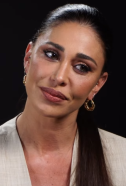
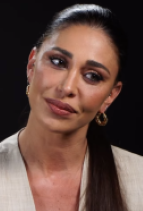
Aggiunta classe Evento per gestire le stringhe e le immagini di output della classe EventiCasuali

diff --git a/Falsissimo/src/falsissimo/EventiCasuali.java b/Falsissimo/src/falsissimo/EventiCasuali.java
@@ -11,127 +11,127 @@ import java.util.Random;
  * @author pazzagli.angelica
  */
 public class EventiCasuali {
-    public static String perquisizione(FabrizioCorona fabrizio) {
+    public static Evento perquisizione(FabrizioCorona fabrizio) {
         Random random = new Random();
         fabrizio.soldi -= random.nextInt(fabrizio.getSoldi() / 2);
         fabrizio.checkSoldi();
-        return "Perquisizione andata male. (soldi -*)";
+        return new Evento("Perquisizione andata male. (soldi -*)", "/images/Perquisizione.png");
     }
     
-    public static String sabotaggio(FabrizioCorona fabrizio) {
+    public static Evento sabotaggio(FabrizioCorona fabrizio) {
         if(fabrizio.getAstuzia() < 7) {
             fabrizio.soldi -= 5000;
             fabrizio.checkSoldi();
-            return "Tentativo di sabotaggio, astuzia insufficiente. (soldi -5.000)";
+            return new Evento("Tentativo di sabotaggio, astuzia insufficiente. (soldi -5.000)", "/images/Sabotaggio.png");
         }
         fabrizio.astuzia++;
         fabrizio.checkAstuzia();
-        return "Tentativo di sabotaggio evitato. (astuzia +1)";
+        return new Evento("Tentativo di sabotaggio evitato. (astuzia +1)", "/images/Sabotaggio.png");
     }
     
-    public static String ricatto(FabrizioCorona fabrizio) {
+    public static Evento ricatto(FabrizioCorona fabrizio) {
         Random random = new Random();
         int perc = random.nextInt(10);
         if(fabrizio.getAstuzia() > 8) {
             if(perc > 8) {
                 fabrizio.soldi += fabrizio.getSoldi() / 2;
-                return "Hai ricattato un VIP, i tuoi soldi aumentano di 1/2 del tuo conto. (soldi +*)";
+                return new Evento("Hai ricattato un VIP, i tuoi soldi aumentano di 1/2 del tuo conto. (soldi +*)", "/images/Ricatto.png");
             }
             fabrizio.soldi += fabrizio.getSoldi() / 6;
-            return "Hai ricattato un VIP, i tuoi soldi aumentano di 1/6 del tuo conto. (soldi +*)";
+            return new Evento("Hai ricattato un VIP, i tuoi soldi aumentano di 1/6 del tuo conto. (soldi +*)", "/images/Ricatto.png");
         }
         fabrizio.soldi -= 7000;
         fabrizio.checkSoldi();
-        return "Hai provato a ricattare un VIP ma non è andata a buon fine. (soldi -7.000)";
+        return new Evento("Hai provato a ricattare un VIP ma non è andata a buon fine. (soldi -7.000)", "/images/Ricatto.png");
     }
     
-    public static String vociNegative(FabrizioCorona fabrizio) {
+    public static Evento vociNegative(FabrizioCorona fabrizio) {
         fabrizio.fama -= 1;
         fabrizio.checkFama();
-        return "Voci false diffuse sul tuo conto. (fama -2)";
+        return new Evento("Voci false diffuse sul tuo conto. (fama -2)", "/images/Pettegolezzi.png");
     }
     
-    public static String truffa(FabrizioCorona fabrizio) {
+    public static Evento truffa(FabrizioCorona fabrizio) {
         fabrizio.soldi -= 10000;
         fabrizio.checkSoldi();
         fabrizio.astuzia -= 1;
         fabrizio.checkAstuzia();
-        return "Sei stato truffato. (soldi -25.000) (astuzia -2)";
+        return new Evento("Sei stato truffato. (soldi -25.000) (astuzia -2)", "/images/Truffa.png");
     }
     
-    public static String intervistaBelve(FabrizioCorona fabrizio) {
+    public static Evento intervistaBelve(FabrizioCorona fabrizio) {
         if(fabrizio.getAstuzia() > 8) {
             fabrizio.astuzia++;
             fabrizio.checkAstuzia();
-            return "Francesca Fagnani ti fa una domanda scomoda, riesci a cavartela grazie alla tua astuzia. (astuzia +1)";
+            return new Evento("Francesca Fagnani ti fa una domanda scomoda, riesci a cavartela grazie alla tua astuzia. (astuzia +1)", "/images/FrancescaFagnani.png");
         }
         fabrizio.fama -= 2;
         fabrizio.checkFama();
-        return "Francesca Fagnani ti fa una domanda scomoda dalla quale non riesci a scappare. (fama -2)";
+        return new Evento("Francesca Fagnani ti fa una domanda scomoda dalla quale non riesci a scappare. (fama -2)", "/images/FrancescaFagnani.png");
     }
     
-    public static String incontroBelen(FabrizioCorona fabrizio) {
+    public static Evento incontroBelen(FabrizioCorona fabrizio) {
         if(fabrizio.getFama() >=9) {
             fabrizio.soldi += 15000;
             fabrizio.fama = 10;
-            return "Sei riuscito ad incontrare Belen e ti ci hanno paparazzato. (soldi +15.000) (fama +1)";
+            return new Evento("Sei riuscito ad incontrare Belen e ti ci hanno paparazzato. (soldi +15.000) (fama +1)", "/images/BelenRodriguez.png");
         }
         fabrizio.fama--;
         fabrizio.checkFama();
-        return "Hai incontrato Belen ma hai fatto una brutta figura. (fama -1)";
+        return new Evento("Hai incontrato Belen ma hai fatto una brutta figura. (fama -1)", "/images/BelenRodriguez.png");
     }
     
-    public static String litigioIlary(FabrizioCorona fabrizio) {
+    public static Evento litigioIlary(FabrizioCorona fabrizio) {
         if(fabrizio.getAstuzia() > 6) {
             fabrizio.fama += 2;
             fabrizio.checkFama();
-            return "Litigata in diretta con Ilary, riesci a sfruttare il momento. (fama +2)";
+            return new Evento("Litigata in diretta con Ilary, riesci a sfruttare il momento. (fama +2)", "/images/IlaryBlasi.png");
         }
         fabrizio.fama -= 2;
         fabrizio.checkFama();
-        return "Litigata in diretta con Ilary, perdi consensi. (fama -2)";
+        return new Evento("Litigata in diretta con Ilary, perdi consensi. (fama -2)", "/images/IlaryBlasi.png");
     }
     
-    public static String paparazzata(FabrizioCorona fabrizio) {
+    public static Evento paparazzata(FabrizioCorona fabrizio) {
         Random random = new Random();
         int guadagno = random.nextInt(10000) + 1000;
         fabrizio.soldi += guadagno;
         fabrizio.astuzia++;
         fabrizio.checkAstuzia();
-        return "Hai organizzato una paparazzata appositamente. (soldi +*) (astuzia +1)";
+        return new Evento("Hai organizzato una paparazzata appositamente. (soldi +*) (astuzia +1)", "/images/Paparazzata.png");
     }
 
-    public static String causaLegale(FabrizioCorona fabrizio) {
+    public static Evento causaLegale(FabrizioCorona fabrizio) {
         if(fabrizio.getSoldi() > 10000) {
             fabrizio.soldi -= 10000;
             fabrizio.checkSoldi();
-            return "Hai abbastanza soldi per evitare la causa. (soldi -10.000)";
+            return new Evento("Hai abbastanza soldi per evitare la causa. (soldi -10.000)", "/images/CausaLegale.png");
         }
         fabrizio.fama -= 1;
         fabrizio.checkFama();
-        return "Immagine intaccata. (fama -1)";
+        return new Evento("Immagine intaccata. (fama -1)", "/images/CausaLegale.png");
     }
 
-    public static String scoopEsclusivo(FabrizioCorona fabrizio) {
+    public static Evento scoopEsclusivo(FabrizioCorona fabrizio) {
         if(fabrizio.getAstuzia() > 7) {
             fabrizio.soldi += 20000;
             fabrizio.fama += 2;
             fabrizio.checkFama();
-            return "Grazie alla tua astuzia hai ottenuto uno scoop esclusivo. (soldi +20000)(fama +2)";
+            return new Evento("Grazie alla tua astuzia hai ottenuto uno scoop esclusivo. (soldi +20000)(fama +2)", "/images/Scoop.png");
         }
         fabrizio.fama -= 1;
         fabrizio.checkFama();
-        return "Astuzia insufficiente per scoprire gossip importanti, i tuoi contatti diminuiscono. (fama -1)";
+        return new Evento("Astuzia insufficiente per scoprire gossip importanti, i tuoi contatti diminuiscono. (fama -1)", "/images/Scoop.png");
     }
     
-    public static String arrestoDefinitivo(FabrizioCorona fabrizio) {
+    public static Evento arrestoDefinitivo(FabrizioCorona fabrizio) {
         fabrizio.soldi = 0;
         fabrizio.fama = 0;
         fabrizio.astuzia = 0;
-        return "Sei stato incastrato in situazioni pericolose. Fine della carriera. (GAME OVER)";
+        return new Evento("Sei stato incastrato in situazioni pericolose. Fine della carriera. (GAME OVER)", "/images/GameOver.png");
     }
     
-    public static String estraiEvento(FabrizioCorona fabrizio) {
+    public static Evento estraiEvento(FabrizioCorona fabrizio) {
         Random random = new Random();
         if(random.nextInt(100) == 0) {
             return arrestoDefinitivo(fabrizio);
@@ -161,6 +161,6 @@ public class EventiCasuali {
             case 10:
                 return truffa(fabrizio);
         }
-        return "Nessun evento";
+        return new Evento("Nessun evento", "");
     }
 }

diff --git a/Falsissimo/src/falsissimo/StartForm.java b/Falsissimo/src/falsissimo/StartForm.java
@@ -40,7 +40,6 @@ public class StartForm extends javax.swing.JFrame {
         lblTitolo = new javax.swing.JLabel();
         btnRegole = new javax.swing.JButton();
         btnClassifica = new javax.swing.JButton();
-        btnRecupera = new javax.swing.JButton();
         jSeparator1 = new javax.swing.JSeparator();
 
         setDefaultCloseOperation(javax.swing.WindowConstants.EXIT_ON_CLOSE);
@@ -86,10 +85,6 @@ public class StartForm extends javax.swing.JFrame {
             }
         });
 
-        btnRecupera.setBackground(new java.awt.Color(204, 204, 204));
-        btnRecupera.setFont(new java.awt.Font("Serif", 3, 14)); // NOI18N
-        btnRecupera.setText("RECUPERA PARTITA");
-
         javax.swing.GroupLayout jPanel1Layout = new javax.swing.GroupLayout(jPanel1);
         jPanel1.setLayout(jPanel1Layout);
         jPanel1Layout.setHorizontalGroup(
@@ -97,8 +92,8 @@ public class StartForm extends javax.swing.JFrame {
             .addGroup(jPanel1Layout.createSequentialGroup()
                 .addGap(203, 203, 203)
                 .addComponent(btnClassifica)
-                .addGap(34, 34, 34)
-                .addComponent(btnRecupera)
+                .addGap(18, 18, 18)
+                .addComponent(btnRegole, javax.swing.GroupLayout.PREFERRED_SIZE, 183, javax.swing.GroupLayout.PREFERRED_SIZE)
                 .addContainerGap(javax.swing.GroupLayout.DEFAULT_SIZE, Short.MAX_VALUE))
             .addGroup(javax.swing.GroupLayout.Alignment.TRAILING, jPanel1Layout.createSequentialGroup()
                 .addContainerGap(37, Short.MAX_VALUE)
@@ -113,30 +108,24 @@ public class StartForm extends javax.swing.JFrame {
                             .addGroup(javax.swing.GroupLayout.Alignment.TRAILING, jPanel1Layout.createSequentialGroup()
                                 .addComponent(lblTitolo, javax.swing.GroupLayout.PREFERRED_SIZE, 224, javax.swing.GroupLayout.PREFERRED_SIZE)
                                 .addGap(95, 95, 95)))
-                        .addGap(36, 36, 36)
-                        .addComponent(btnRegole)))
+                        .addGap(115, 115, 115)))
                 .addGap(36, 36, 36))
         );
         jPanel1Layout.setVerticalGroup(
             jPanel1Layout.createParallelGroup(javax.swing.GroupLayout.Alignment.LEADING)
             .addGroup(jPanel1Layout.createSequentialGroup()
-                .addGroup(jPanel1Layout.createParallelGroup(javax.swing.GroupLayout.Alignment.LEADING)
-                    .addGroup(jPanel1Layout.createSequentialGroup()
-                        .addGap(15, 15, 15)
-                        .addComponent(lblTitolo, javax.swing.GroupLayout.PREFERRED_SIZE, 298, javax.swing.GroupLayout.PREFERRED_SIZE))
-                    .addGroup(jPanel1Layout.createSequentialGroup()
-                        .addGap(32, 32, 32)
-                        .addComponent(btnRegole)))
+                .addGap(15, 15, 15)
+                .addComponent(lblTitolo, javax.swing.GroupLayout.PREFERRED_SIZE, 298, javax.swing.GroupLayout.PREFERRED_SIZE)
                 .addPreferredGap(javax.swing.LayoutStyle.ComponentPlacement.UNRELATED)
                 .addComponent(txtNome, javax.swing.GroupLayout.PREFERRED_SIZE, 35, javax.swing.GroupLayout.PREFERRED_SIZE)
                 .addGap(18, 18, 18)
                 .addComponent(btnStart, javax.swing.GroupLayout.PREFERRED_SIZE, 46, javax.swing.GroupLayout.PREFERRED_SIZE)
                 .addPreferredGap(javax.swing.LayoutStyle.ComponentPlacement.UNRELATED)
                 .addComponent(jSeparator1, javax.swing.GroupLayout.PREFERRED_SIZE, 10, javax.swing.GroupLayout.PREFERRED_SIZE)
-                .addPreferredGap(javax.swing.LayoutStyle.ComponentPlacement.RELATED, 10, Short.MAX_VALUE)
-                .addGroup(jPanel1Layout.createParallelGroup(javax.swing.GroupLayout.Alignment.BASELINE)
-                    .addComponent(btnClassifica, javax.swing.GroupLayout.PREFERRED_SIZE, 35, javax.swing.GroupLayout.PREFERRED_SIZE)
-                    .addComponent(btnRecupera, javax.swing.GroupLayout.PREFERRED_SIZE, 35, javax.swing.GroupLayout.PREFERRED_SIZE))
+                .addPreferredGap(javax.swing.LayoutStyle.ComponentPlacement.UNRELATED, javax.swing.GroupLayout.DEFAULT_SIZE, Short.MAX_VALUE)
+                .addGroup(jPanel1Layout.createParallelGroup(javax.swing.GroupLayout.Alignment.LEADING, false)
+                    .addComponent(btnClassifica, javax.swing.GroupLayout.DEFAULT_SIZE, 35, Short.MAX_VALUE)
+                    .addComponent(btnRegole, javax.swing.GroupLayout.DEFAULT_SIZE, javax.swing.GroupLayout.DEFAULT_SIZE, Short.MAX_VALUE))
                 .addGap(29, 29, 29))
         );
 
@@ -170,14 +159,22 @@ public class StartForm extends javax.swing.JFrame {
     }//GEN-LAST:event_btnStartActionPerformed
 
     private void btnRegoleActionPerformed(java.awt.event.ActionEvent evt) {//GEN-FIRST:event_btnRegoleActionPerformed
-        String testo = "Benvenuto a Falsissimo!\n\n"
-                 + "Inserisci il tuo nickname e premi START per iniziare una nuova partita.\n"
-                 + "Oppure clicca 'Recupera partita' per riprendere la precedente.\n"
-                 + "Clicca su 'Classifica' per visualizzare l'elenco dei user che hanno giocato.\n"
-                 + "L'obiettivo è raggiungere il maggior patrimonio possibile in 10 turni, ma attenzione a non scendere sotto zero.\n\n"
-                 + "Ad una giornata da Fabrizio Corona!\n\n";
-    
-        JOptionPane.showMessageDialog(this, testo, "Regole del Gioco", JOptionPane.INFORMATION_MESSAGE);
+        String testoRegole = """
+        Benvenuto nel mondo dei VIP!
+
+        Il tuo obiettivo è completare il percorso al 100% per diventare una star internazionale.
+        Durante il gioco, parteciperai a eventi che influenzeranno i tuoi progressi: alcuni aumenteranno i tuoi soldi, 
+        la tua fama o la tua astuzia, altri potrebbero ridurli.
+
+        Attenzione! Se i tuoi soldi arrivano a 0, il gioco finisce immediatamente: hai perso!
+
+        Strategia e fortuna sono fondamentali: scegli con attenzione le azioni da intraprendere 
+        e sfrutta al meglio i tuoi valori di soldi, fama e astuzia per avanzare lungo il percorso 
+        e raggiungere il traguardo finale.
+
+        Buona fortuna, futuro VIP!
+        """;
+        JOptionPane.showMessageDialog(this, testoRegole, "Regole del Gioco", JOptionPane.INFORMATION_MESSAGE);
     }//GEN-LAST:event_btnRegoleActionPerformed
 
     private void txtNomeActionPerformed(java.awt.event.ActionEvent evt) {//GEN-FIRST:event_txtNomeActionPerformed
@@ -198,7 +195,6 @@ public class StartForm extends javax.swing.JFrame {
 
     // Variables declaration - do not modify//GEN-BEGIN:variables
     private javax.swing.JButton btnClassifica;
-    private javax.swing.JButton btnRecupera;
     private javax.swing.JButton btnRegole;
     private javax.swing.JButton btnStart;
     private javax.swing.JPanel jPanel1;

diff --git a/Falsissimo/src/falsissimo/GameForm.java b/Falsissimo/src/falsissimo/GameForm.java
@@ -97,7 +97,7 @@ public class GameForm extends javax.swing.JFrame {
     private void controlloAumento(String messaggio) {
         if(messaggio.contains("+")) {
             try {
-                aumentaBar(new Random().nextInt(40, 50));
+                aumentaBar(new Random().nextInt(15, 31));
             } catch (IOException ex) {
                 System.getLogger(GameForm.class.getName()).log(System.Logger.Level.ERROR, (String) null, ex);
             }
@@ -272,10 +272,10 @@ public class GameForm extends javax.swing.JFrame {
                                 .addGroup(jPanel1Layout.createParallelGroup(javax.swing.GroupLayout.Alignment.LEADING)
                                     .addComponent(btnAbilità, javax.swing.GroupLayout.PREFERRED_SIZE, 175, javax.swing.GroupLayout.PREFERRED_SIZE)
                                     .addComponent(btnEsplora, javax.swing.GroupLayout.PREFERRED_SIZE, 175, javax.swing.GroupLayout.PREFERRED_SIZE))))))
-                .addPreferredGap(javax.swing.LayoutStyle.ComponentPlacement.RELATED, javax.swing.GroupLayout.DEFAULT_SIZE, Short.MAX_VALUE)
+                .addPreferredGap(javax.swing.LayoutStyle.ComponentPlacement.RELATED, 37, Short.MAX_VALUE)
                 .addGroup(jPanel1Layout.createParallelGroup(javax.swing.GroupLayout.Alignment.LEADING)
                     .addGroup(javax.swing.GroupLayout.Alignment.TRAILING, jPanel1Layout.createSequentialGroup()
-                        .addComponent(lblOspite, javax.swing.GroupLayout.PREFERRED_SIZE, 124, javax.swing.GroupLayout.PREFERRED_SIZE)
+                        .addComponent(lblOspite, javax.swing.GroupLayout.PREFERRED_SIZE, 143, javax.swing.GroupLayout.PREFERRED_SIZE)
                         .addPreferredGap(javax.swing.LayoutStyle.ComponentPlacement.RELATED)
                         .addComponent(pnlEventi, javax.swing.GroupLayout.PREFERRED_SIZE, javax.swing.GroupLayout.DEFAULT_SIZE, javax.swing.GroupLayout.PREFERRED_SIZE)
                         .addGap(22, 22, 22))
@@ -307,8 +307,8 @@ public class GameForm extends javax.swing.JFrame {
                 .addGroup(jPanel1Layout.createParallelGroup(javax.swing.GroupLayout.Alignment.LEADING)
                     .addGroup(javax.swing.GroupLayout.Alignment.TRAILING, jPanel1Layout.createSequentialGroup()
                         .addGroup(jPanel1Layout.createParallelGroup(javax.swing.GroupLayout.Alignment.LEADING)
-                            .addComponent(lblOspite, javax.swing.GroupLayout.PREFERRED_SIZE, 186, javax.swing.GroupLayout.PREFERRED_SIZE)
-                            .addComponent(pnlEventi, javax.swing.GroupLayout.PREFERRED_SIZE, javax.swing.GroupLayout.DEFAULT_SIZE, javax.swing.GroupLayout.PREFERRED_SIZE))
+                            .addComponent(pnlEventi, javax.swing.GroupLayout.PREFERRED_SIZE, javax.swing.GroupLayout.DEFAULT_SIZE, javax.swing.GroupLayout.PREFERRED_SIZE)
+                            .addComponent(lblOspite, javax.swing.GroupLayout.PREFERRED_SIZE, 211, javax.swing.GroupLayout.PREFERRED_SIZE))
                         .addPreferredGap(javax.swing.LayoutStyle.ComponentPlacement.RELATED)
                         .addGroup(jPanel1Layout.createParallelGroup(javax.swing.GroupLayout.Alignment.BASELINE)
                             .addComponent(btnSalva, javax.swing.GroupLayout.PREFERRED_SIZE, 36, javax.swing.GroupLayout.PREFERRED_SIZE)
@@ -362,12 +362,15 @@ public class GameForm extends javax.swing.JFrame {
             fineGioco(messaggio);
             return;
         }
+        lblOspite.setIcon(new ImageIcon(getClass().getResource("/images/Stella.png")));
         controlloAumento(messaggio);
         txtEventi.append("\n" + messaggio);
+        btnAbilità.setEnabled(false);
     }//GEN-LAST:event_btnAbilitàActionPerformed
 
     private void btnEsploraActionPerformed(java.awt.event.ActionEvent evt) {//GEN-FIRST:event_btnEsploraActionPerformed
-        String messaggio = gameManager.esplora();
+        Evento evento = gameManager.esplora();
+        String messaggio = evento.getMessaggio();
         valueLabel();
         if(gameManager.giocatore.getSoldi() == 0) {
             messaggio = "Soldi terminati";
@@ -376,12 +379,7 @@ public class GameForm extends javax.swing.JFrame {
             fineGioco(messaggio);
             return;
         }
-        switch (messaggio) {
-            case "Francesca Fagnani ti fa una domanda scomoda, riesci a cavartela grazie alla tua astuzia. (astuzia +1)", "Francesca Fagnani ti fa una domanda scomoda dalla quale non riesci a scappare. (fama -2)" -> lblOspite.setIcon(new ImageIcon(getClass().getResource("/images/FrancescaFagnani.png")));
-            case "Sei riuscito ad incontrare Belen e ti ci hanno paparazzato. (soldi +15.000) (fama +1)", "Hai incontrato Belen ma hai fatto una brutta figura. (fama -1)" -> lblOspite.setIcon(new ImageIcon(getClass().getResource("/images/BelenRodriguez.png")));
-            case "Litigata in diretta con Ilary, riesci a sfruttare il momento. (fama +2)" -> lblOspite.setIcon(new ImageIcon(getClass().getResource("/images/IlaryBlasi.png")));
-            default -> lblOspite.setIcon(null);
-        }
+        lblOspite.setIcon(new ImageIcon(getClass().getResource(evento.getImmagine())));
         controlloAumento(messaggio);
         txtEventi.append("\n" + messaggio);
     }//GEN-LAST:event_btnEsploraActionPerformed

diff --git a/Falsissimo/src/falsissimo/Evento.java b/Falsissimo/src/falsissimo/Evento.java
@@ -1,0 +1,27 @@
+/*
+ * Click nbfs://nbhost/SystemFileSystem/Templates/Licenses/license-default.txt to change this license
+ * Click nbfs://nbhost/SystemFileSystem/Templates/Classes/Class.java to edit this template
+ */
+package falsissimo;
+
+/**
+ *
+ * @author 39333
+ */
+public class Evento {
+    private String messaggio;
+    private String immagine;
+    
+    public Evento(String messaggio, String immagine) {
+        this.messaggio = messaggio;
+        this.immagine = immagine;
+    }
+    
+    public String getMessaggio() {
+        return messaggio;
+    }
+    
+    public String getImmagine() {
+        return immagine;
+    }
+}

diff --git a/Falsissimo/src/falsissimo/GameManager.java b/Falsissimo/src/falsissimo/GameManager.java
@@ -78,7 +78,7 @@ public class GameManager implements Serializable{
         return giocatore.usaAbilità();
     }
 
-    public String esplora() {
+    public Evento esplora() {
         return EventiCasuali.estraiEvento(giocatore);
     }
 

diff --git a/Falsissimo/src/falsissimo/Carcerato.java b/Falsissimo/src/falsissimo/Carcerato.java
@@ -11,7 +11,7 @@ package falsissimo;
 public class Carcerato extends FabrizioCorona{
     
     public Carcerato() {
-        super("CARCERATO", 150000, 9, 5);
+        super("CARCERATO", 200000, 9, 5);
     }
     
     @Override
